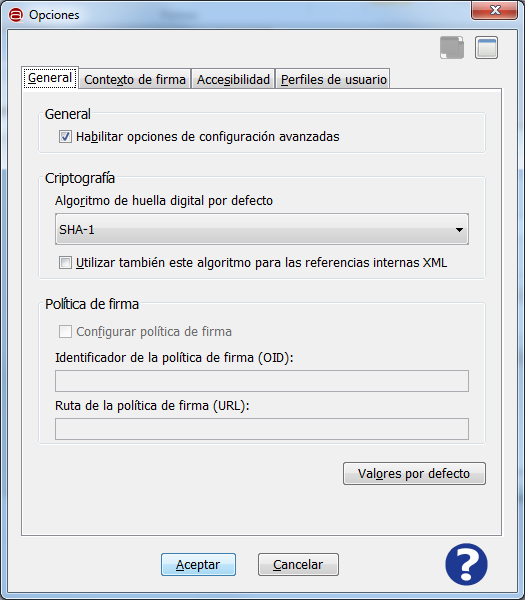
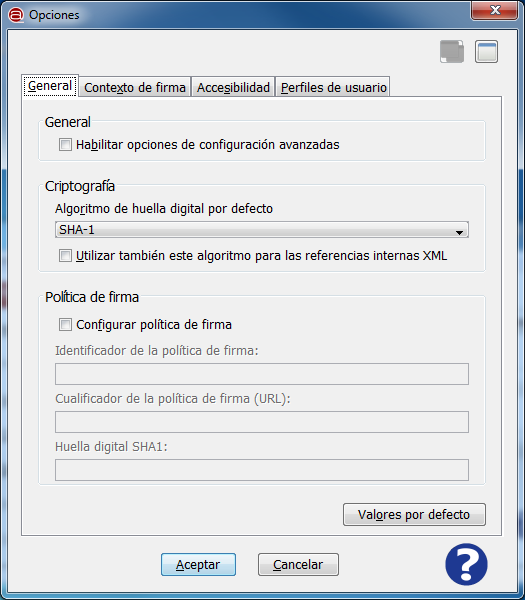
Se actualiza la información del panel de opciones y se agrega el apartado de política de firma de la AGE
git-svn-id: http://svn-ctt.administracionelectronica.gob.es/svn/clienteafirma/trunk/project@2890 dcdbb401-323c-49cf-88a0-803402807c85

diff --git a/afirma-ui-standalone-help-es_ES/src/main/resources/help/html/es_ES/politica_firma_AGE.html b/afirma-ui-standalone-help-es_ES/src/main/resources/help/html/es_ES/politica_firma_AGE.html
@@ -1,0 +1,46 @@
+<html>
+<head>
+	<title>Pol&iacute;tica de firma de la AGE</title>
+</head>
+<body>
+<h2><a name="_Toc275937502">Pol&iacute;tica de firma de la AGE</a></h2>
+
+<p>La pol&iacute;tica de firma de la AGE define un marco legal de firma electr&oacute;nica concreto
+y com&uacute;n para la administraci&oacute;n p&uacute;blica espa&ntilde;ola. La declaraci&oacute;n de esta pol&iacute;tica de
+firma indica que se han cumplido los requisitos exigidos por la pol&iacute;tica durante el
+proceso de firma electr&oacute;nica.</p>
+
+<p>Actualmente, se encuentra en vigencia la versi&oacute;n 1.8 de la pol&iacute;tica de la AGE, de la
+que puede consultar su contenido en el siguiente documento:</p>
+
+<a href="http://administracionelectronica.gob.es/es/ctt/politicafirma/politica_firma_AGE_v1_8.pdf">
+http://administracionelectronica.gob.es/es/ctt/politicafirma/politica_firma_AGE_v1_8.pdf</a>
+
+<p>Para la configuraci&oacute;n de la pol&iacute;tica de la interfaz de escritorio del Cliente @firma
+deber&aacute; configurar los atributos apropiados en el men&uacute; de opciones de la aplicaci&oacute;n. Los
+valores asignados a las distintas propiedades son:</p>
+
+<table border="1px">
+<tr><td><b>Propiedad</b></td><td><b>Valor</b></td></tr>
+<tr><td>Identificador de la pol&iacute;tica de firma</td><td>urn:oid:2.16.724.1.3.1.1.2.1.8</td></tr>
+<tr><td>Cualificador de la pol&iacute;tica de firma</td><td>
+<a href="http://administracionelectronica.gob.es/es/ctt/politicafirma/politica_firma_AGE_v1_8.pdf">
+http://administracionelectronica.gob.es/es/ctt/politicafirma/politica_firma_AGE_v1_8.pdf</a></td></tr>
+<tr><td>Huella digital SHA1 (para firmas CAdES)</td><td>7SxX3erFuH31TvAw9LZ70N7p1vA=</td></tr>
+<tr><td>Huella digital SHA1 (para firmas XAdES)</td><td>V8lVVNGDCPen6VELRD1Ja8HARFk=</td></tr>
+</table>
+
+<p><b>ADVERTENCIA:</b> Debido a que las firmas CAdES y XAdES deben declarar una huella digital
+distinta para la pol&iacute;tica de firma, se debe configurar cuidadosamente esta propiedad seg&uacute;n el
+tipo de formato de firma electr&oacute;nica que desee utilizar. Tenga en cuenta que algunos validadores
+compatibles con la pol&iacute;tica de firma definida (como VALIDe en el caso de la pol&iacute;tica de firma de
+la AGE) pueden validar la huella digital de la pol&iacute;tica y determinar que la firma es incorrecta
+si no define la huella digital correspondiente al formato de firma.</p>
+
+<p>Para la realizaci&oacute;n de firmas PAdES con pol&iacute;tica de firma, utilice la huella digital
+definida para las firmas CAdES.</p>
+
+<p>Las firmas ODF y OOXML no definen una pol&iacute;tica de firma.</p>
+
+</body>
+</html>

diff --git a/afirma-ui-standalone-help-es_ES/src/main/resources/help/html/es_ES/opciones_configuracion.html b/afirma-ui-standalone-help-es_ES/src/main/resources/help/html/es_ES/opciones_configuracion.html
@@ -50,6 +50,9 @@ elemento "Opciones del men&uacute; "Herramientas".</p>
 	<li><b>Valores por defecto:</b> Establece los valores por defecto para esta pesta&ntilde;a de configuraci&oacute;n.</li>
 </ul>
 
+<p>Puede consultar las propiedades de configuraci&oacute;n de la pol&iacute;tica de firma de la
+AGE en el apartado <a href="politica_firma_AGE.html">Pol&iacute;tica de firma de la AGE</a></p>
+
 <h3>Contexto de firma</h3>
 
 <p align="center">

diff --git a/afirma-ui-standalone-help-es_ES/src/main/resources/help/html/es_ES/politica_firma.html b/afirma-ui-standalone-help-es_ES/src/main/resources/help/html/es_ES/politica_firma.html
@@ -15,5 +15,8 @@ una referencia a la pol&iacute;tica. Esta &uacute;ltima opci&oacute;n es la adop
 formatos de firma soportados por el Cliente @firma: firmas EPES (Explicit
 Policy Electronic Signature).</p>
 
+<p>Puede consultar las propiedades de configuraci&oacute;n de la pol&iacute;tica de firma de la
+AGE en el apartado <a href="politica_firma_AGE.html">Pol&iacute;tica de firma de la AGE</a></p>
+
 </body>
 </html>
